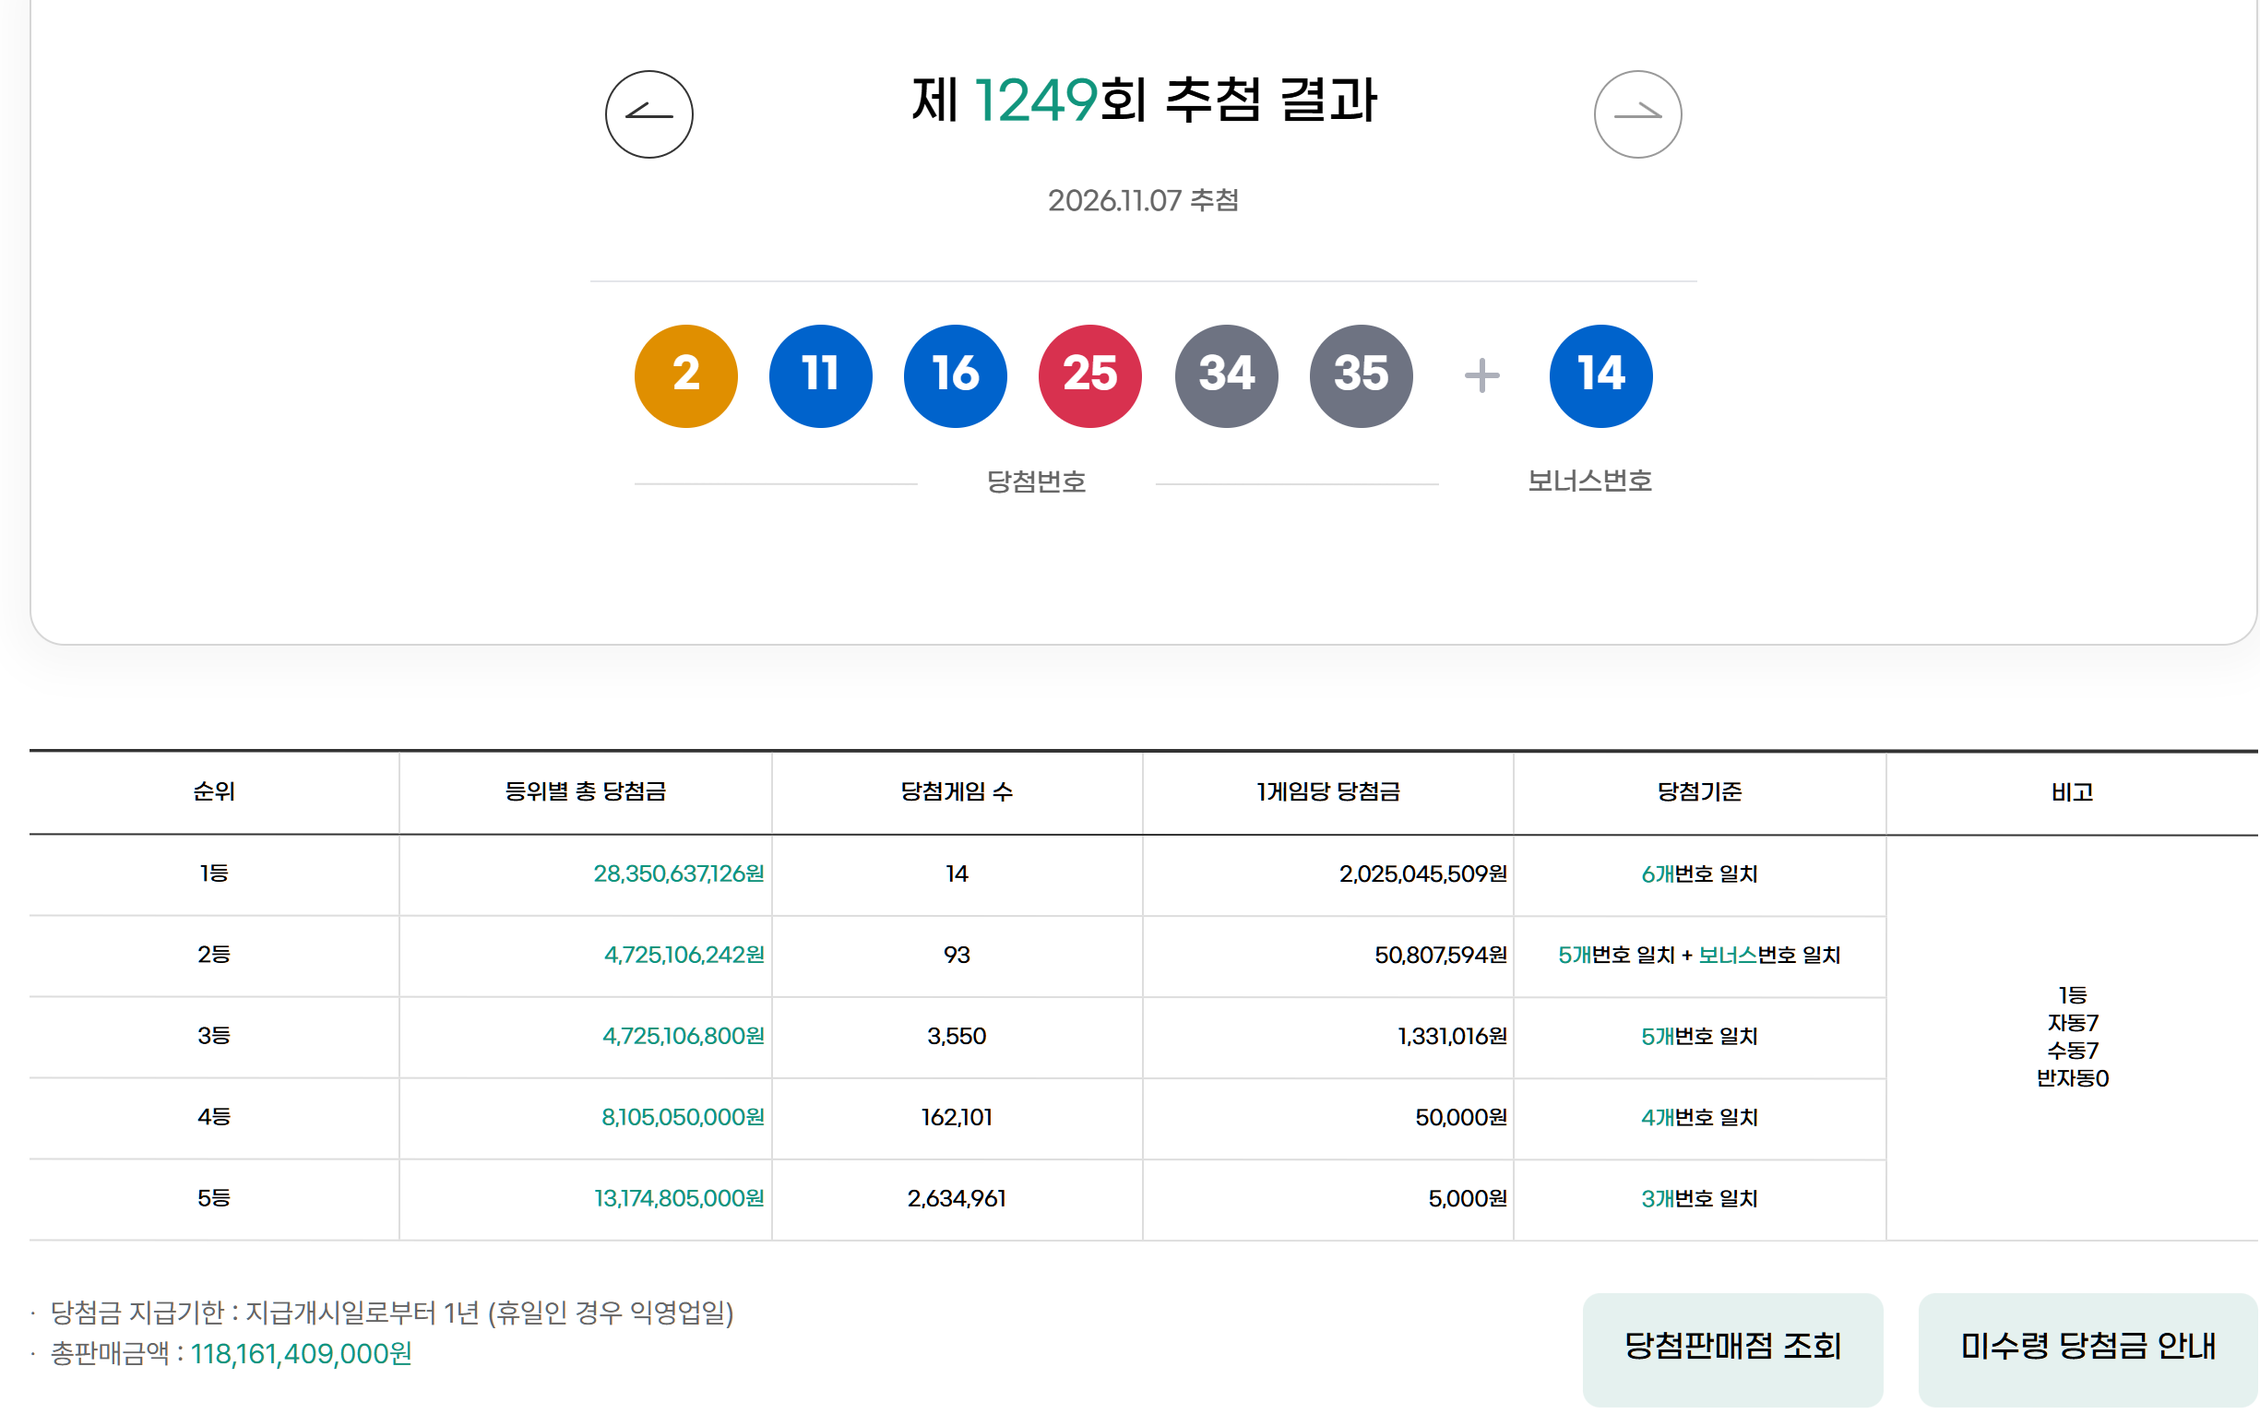
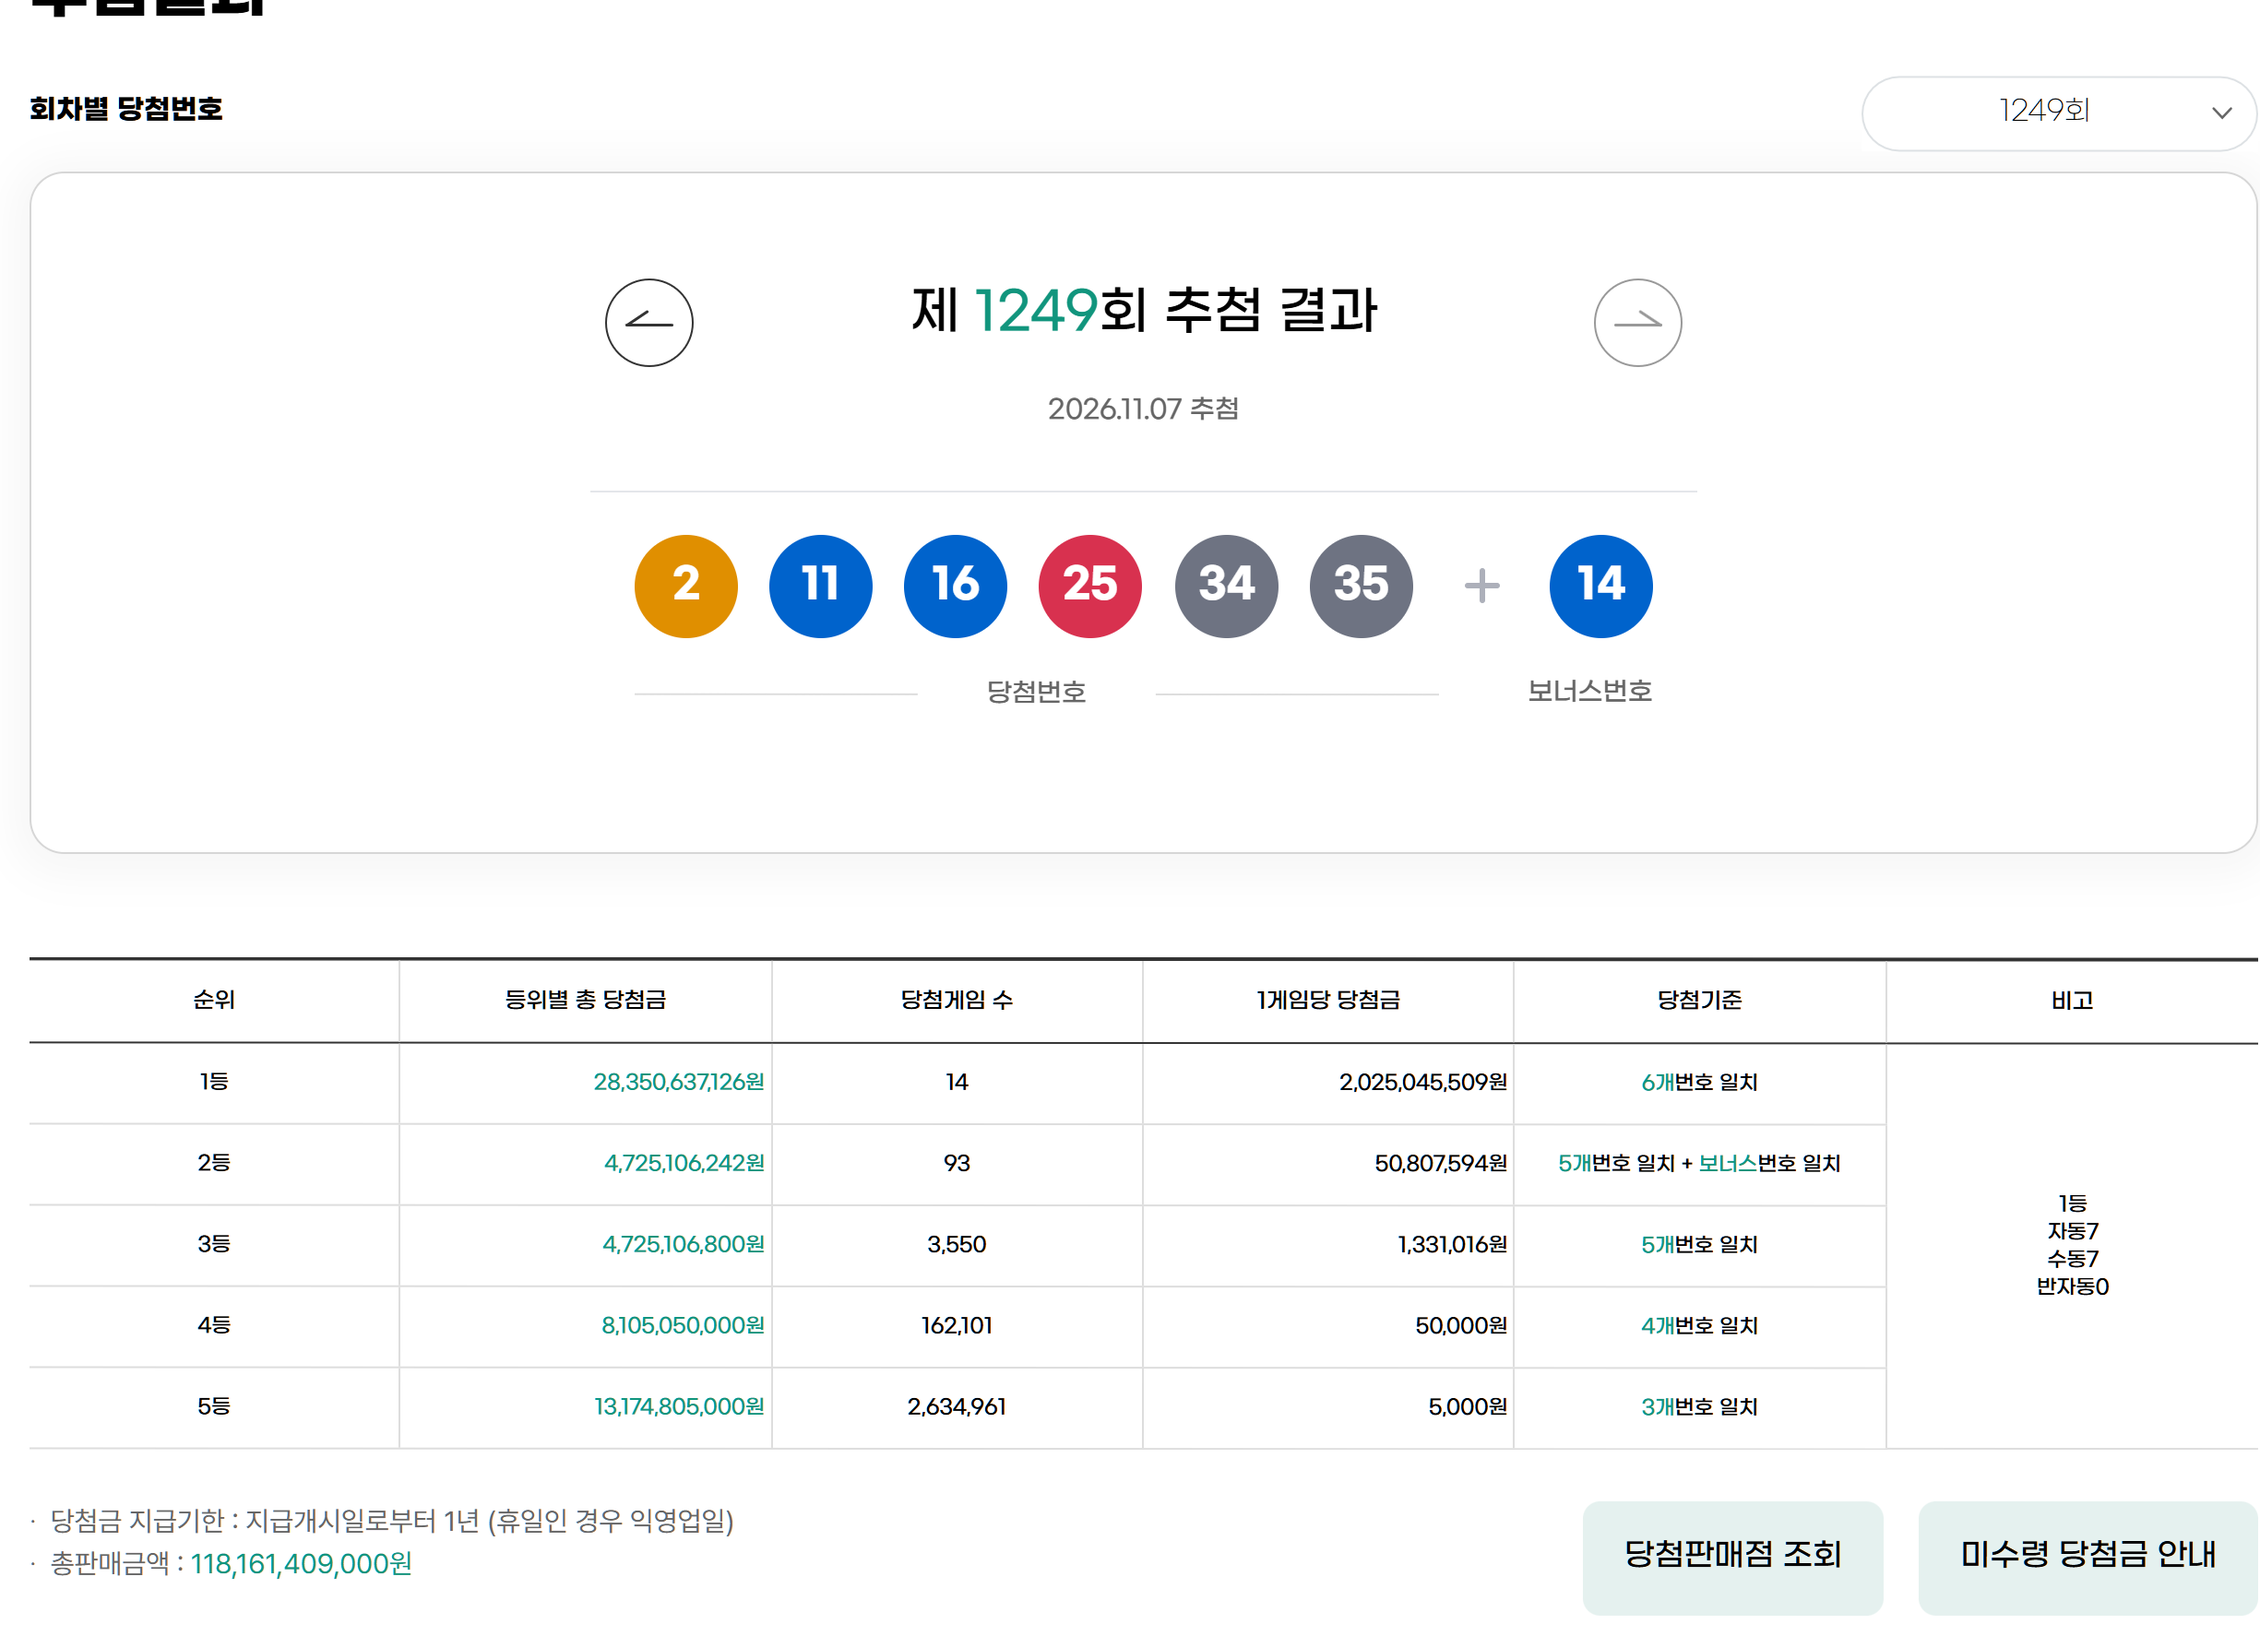
로또 사진은 MBC 추첨방송 화면에서 찍는다 (사장님 2026-11-07)

diff --git a/docs/세션간-메모.md b/docs/세션간-메모.md
@@ -29553,3 +29553,15 @@ https://m.sports.naver.com/esports/article/236/0000257715 (T1, MKOI 2:0 꺾고 8
 > 끝나면 이 줄 아래에 결과가 붙습니다. 락: `C:\Users\USER\Documents\GitHub\.cloudtype-deploy-lock.json`
 - 📸 21:35 개행 고친 판본과 **동행복권 공식 추첨결과 캡처**를 다시 보냈습니다 — 메일 id `1a1b602292da30d0`. 사진은 `docs/사진-중부매일-20261107-로또1249-추첨결과.png`, 사진설명은 데스킹본 안에 넣었습니다.
 - ⛔ 메일 글에 **손으로 줄바꿈을 넣지 마십시오.** send-mail 은 기본이 평문이라 70자쯤에서 자른 줄이 그대로 나가 문장 한가운데가 끊깁니다. 한 문단을 한 줄로 두고 `--흐르게` 를 붙입니다.
+
+> ✅ **[배포 · seoulmarkets 스테이지] 배포 완료 2026. 11. 7. 21시 46분 7초 KST** — 새 지면이 라이브에 떴다.
+> · https://www.kculturewire.com/article/i-live-alone-minho-triathlon-third-place-2-27-14-friday-variety-5-1 200
+> · https://www.kculturewire.com/article/liar-episode-3-series-high-2-2-percent-doctor-x-15-3 200
+> · https://www.kculturewire.com/ko/review/illit-break-even-music-bank-2026-11-06 200
+> (ctype 표시는 `Starting` — 표시가 아니라 지면으로 판정했다)
+
+## 2026-11-07 21:51 · 5번 → 전 유닛 📸 로또 사진은 MBC 추첨방송에서 찍는다 (사장님 지시)
+- 사장님 2026-11-07 「https://program.imbc.com/lotto 여기에서 앞으론 캡쳐해」. 동행복권 당첨결과 표는 **자료 화면이지 기사 사진이 아닙니다.**
+- 찍는 길 — program.imbc.com/lotto 최신영상의 핫클립 `[NNNN회] 행복드림 로또 6/45` → `playvod.imbc.com/Templete/ClipView?bid=…` → 재생기 포스터에 추첨기·공과 「제NNNN회 + 번호 일곱」 띠가 함께 있습니다.
+- 오늘 사진은 `docs/사진-중부매일-20261107-로또1249-추첨방송.png`, 메일 id `1a1b6107962f1596`.
+- 공식 수치 확인은 그대로 동행복권에서 합니다. 확인하는 곳과 사진 얻는 곳은 다릅니다.
